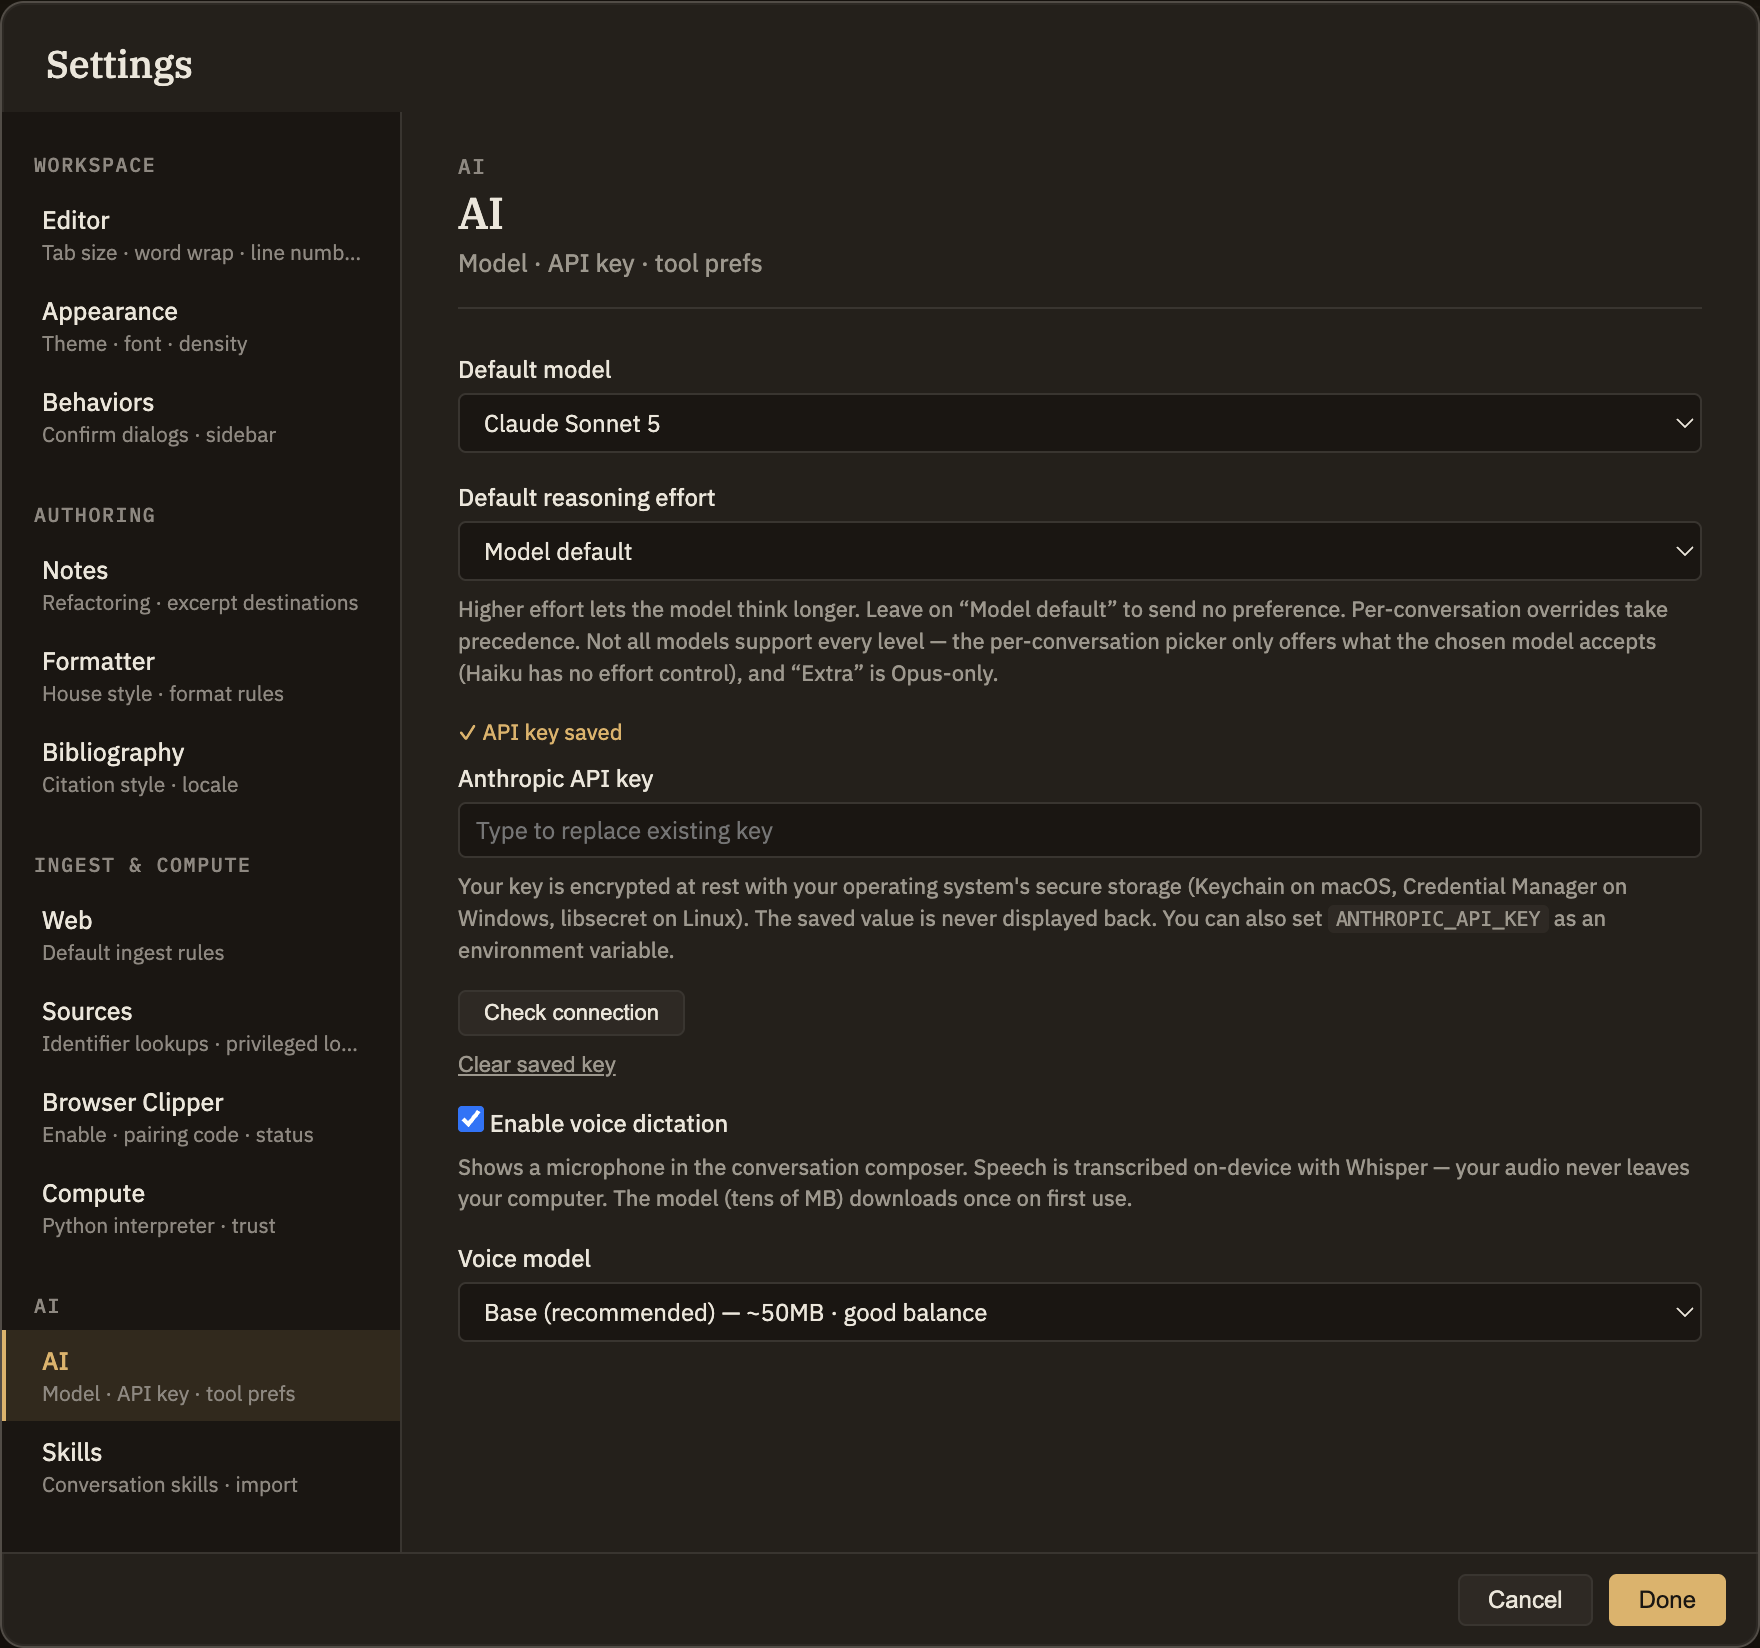
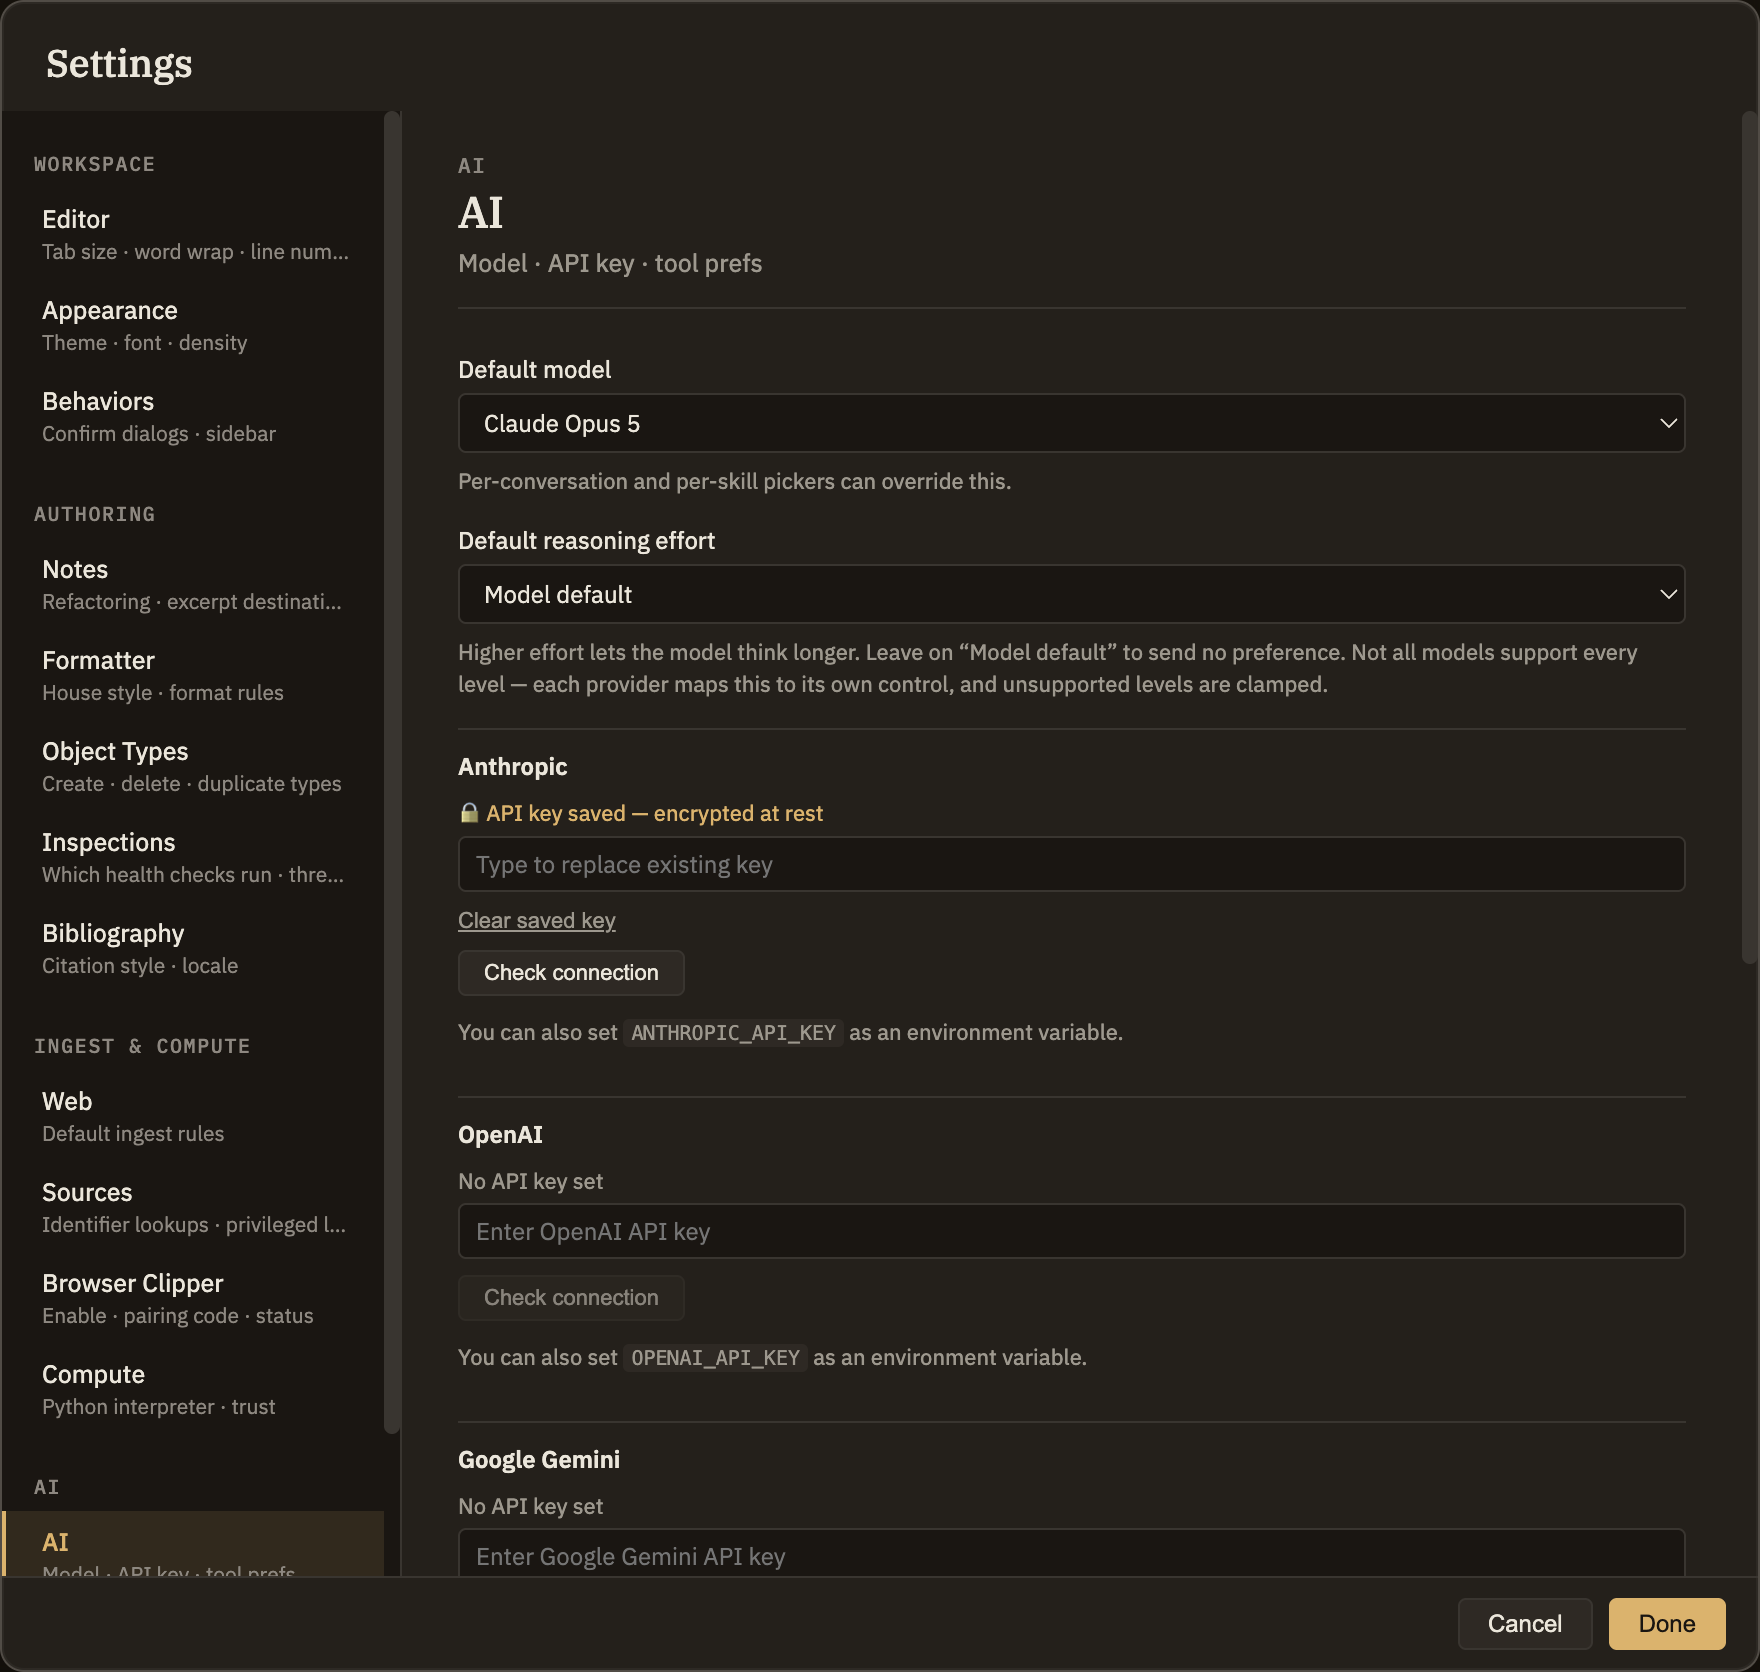
docs: regenerate the AI settings screenshot
The shot predated the multi-provider work — one API key field where the
panel now has a section per service. Recaptured through the harness; it
shows Anthropic with a key saved and encrypted at rest, OpenAI and Gemini
with none, each with its own Check connection and environment variable.

Alt text rewritten to describe what's there rather than the old layout.

The Local / OpenAI-compatible section and voice dictation sit below the
fold of the dialog, so they're described in prose rather than shown.

diff --git a/website/docs/settings-ai.html b/website/docs/settings-ai.html
@@ -166,8 +166,8 @@
     <p>Turn on <b>Enable voice dictation</b> to speak instead of type, and pick a voice model from the dropdown beside it. Dictation runs entirely on your own machine — your audio never leaves it. The first time you use it, the voice model downloads once and is then ready to use offline.</p>
 
     <figure class="shot-img">
-      <img src="img/settings-ai.png" alt="The AI settings panel: a default model dropdown and a reasoning effort dropdown, then the API key section showing whether a key is saved, and at the bottom the voice dictation toggle with its model choice." loading="lazy" />
-      <figcaption>Screenshot — the AI settings tab</figcaption>
+      <img src="img/settings-ai.png" alt="The AI settings tab: default model and reasoning effort dropdowns, then a section per service — Anthropic with a key saved and encrypted at rest, OpenAI and Google Gemini with none set — each with its own key field, Check connection button, and the environment variable it falls back to." loading="lazy" />
+      <figcaption>Screenshot — one section per service, each with its own key</figcaption>
     </figure>
 
     <div class="pager">
